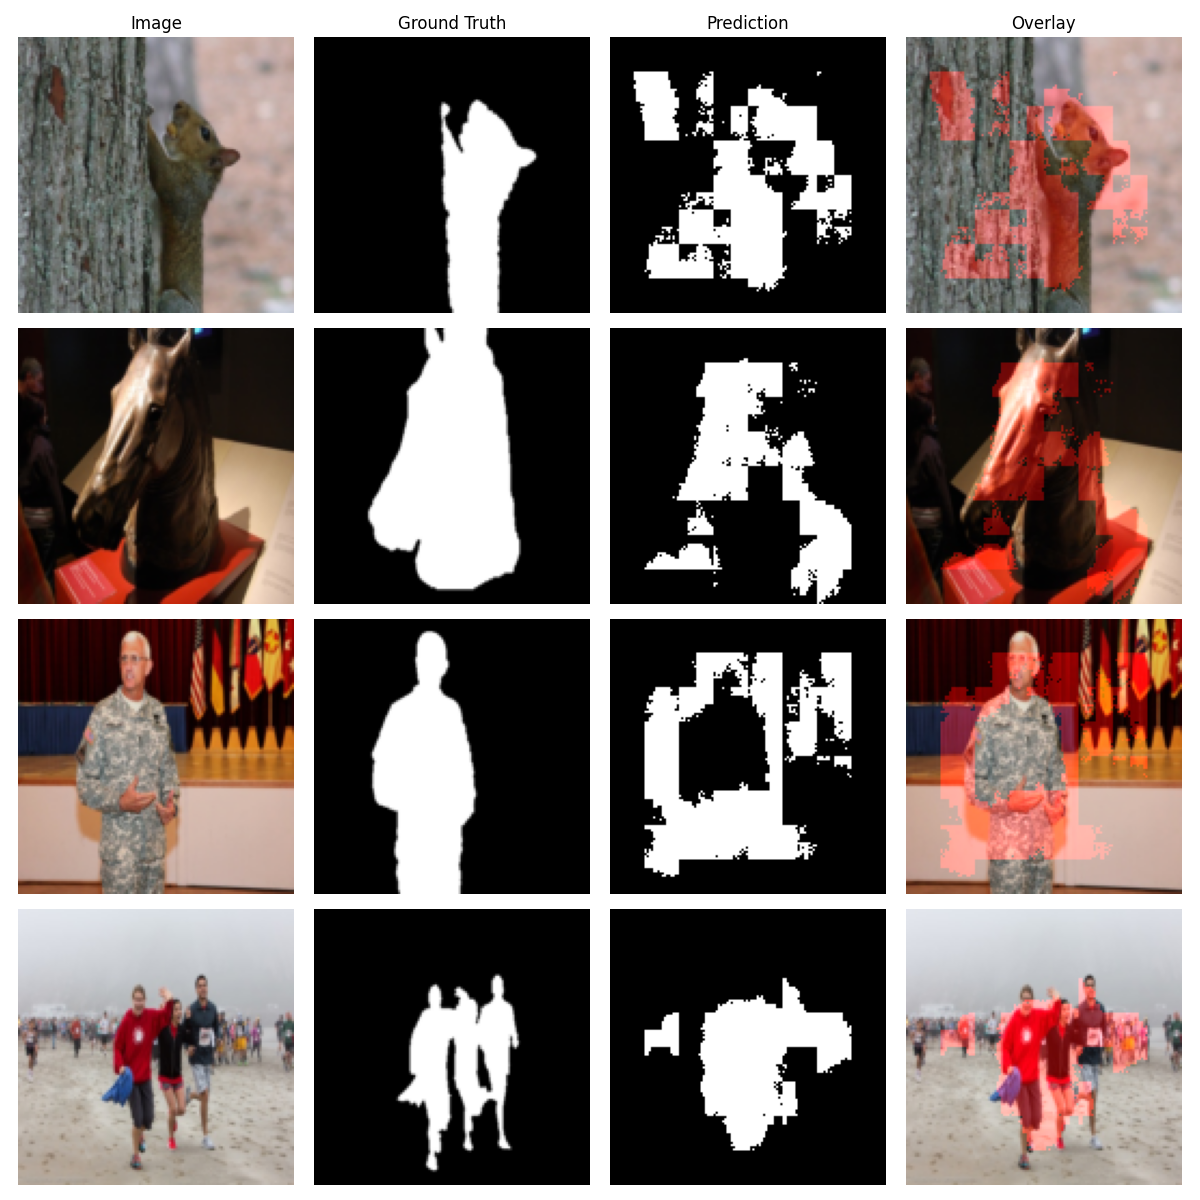
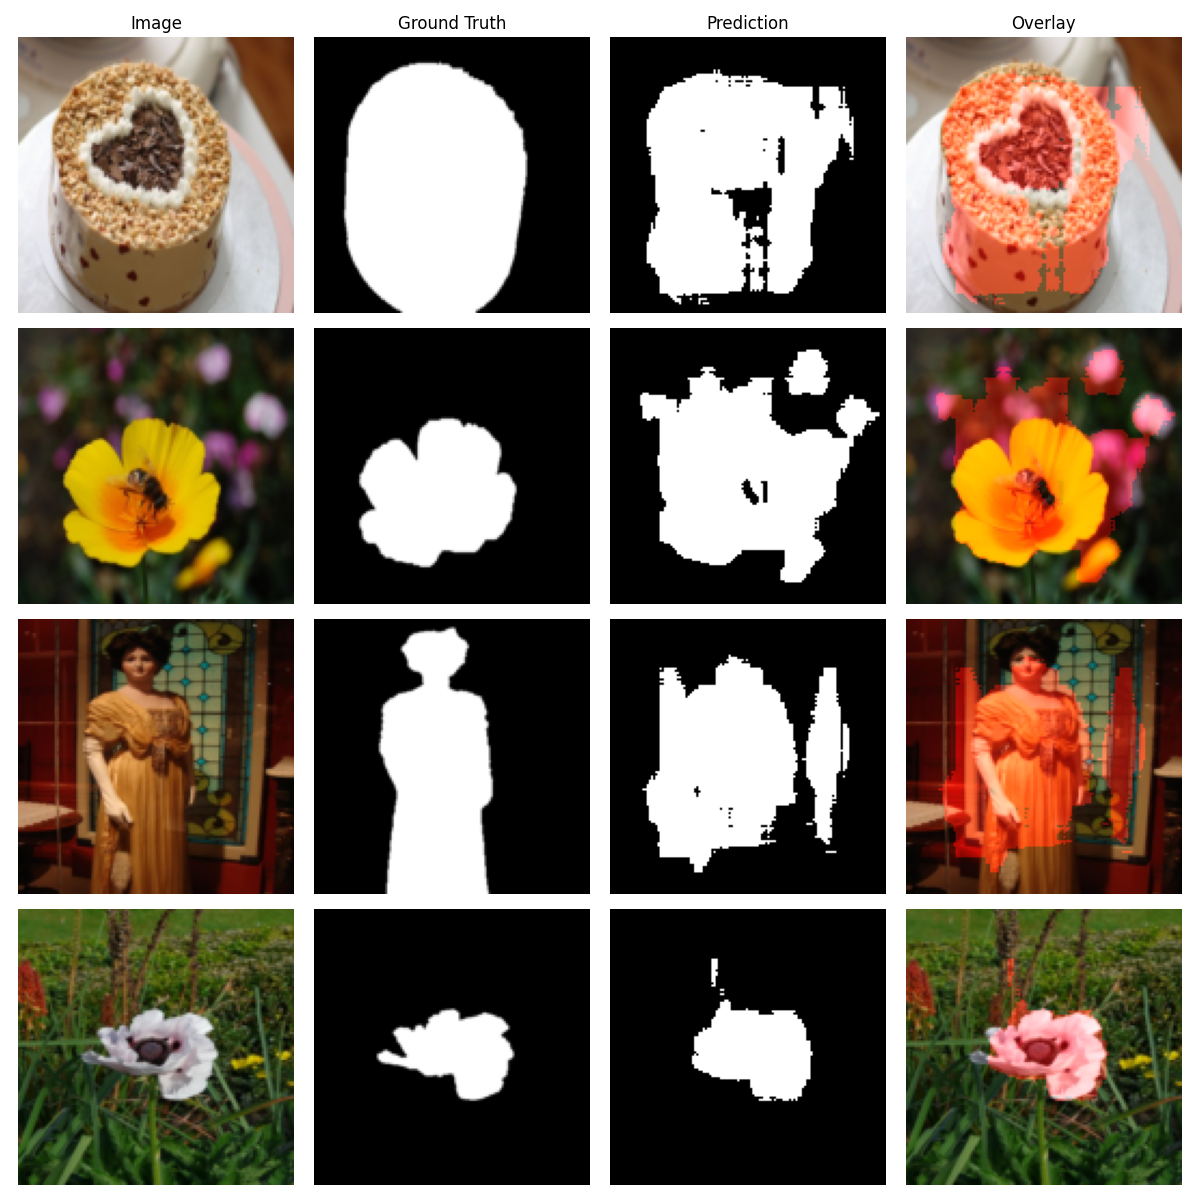
features: add U-Net architecture for experimentation and data augmentation

diff --git a/unet_sod_model.py b/unet_sod_model.py
@@ -1,0 +1,53 @@
+import torch
+import torch.nn as nn
+
+class UNetSODModel(nn.Module):
+    def __init__(self):
+        super().__init__()
+
+        self.pool = nn.MaxPool2d(2, 2)
+
+        # Encoder
+        self.enc1 = nn.Sequential(nn.Conv2d(3, 64, kernel_size=3, padding=1), nn.BatchNorm2d(64), nn.ReLU())
+        self.enc2 = nn.Sequential(nn.Conv2d(64, 128, kernel_size=3, padding=1), nn.BatchNorm2d(128), nn.ReLU())
+        self.enc3 = nn.Sequential(nn.Conv2d(128, 256, kernel_size=3, padding=1), nn.BatchNorm2d(256), nn.ReLU())
+        self.enc4 = nn.Sequential(nn.Conv2d(256, 512, kernel_size=3, padding=1), nn.BatchNorm2d(512), nn.ReLU())
+
+        # Decoder
+        self.dec1 = nn.ConvTranspose2d(512, 256, kernel_size=2, stride=2)
+        self.dec1_conv = nn.Sequential(nn.Conv2d(512, 256, kernel_size=3, padding=1), nn.BatchNorm2d(256), nn.ReLU())
+
+        self.dec2 = nn.ConvTranspose2d(256, 128, kernel_size=2, stride=2)
+        self.dec2_conv = nn.Sequential(nn.Conv2d(256, 128, kernel_size=3, padding=1), nn.BatchNorm2d(128), nn.ReLU())
+
+        self.dec3 = nn.ConvTranspose2d(128, 64, kernel_size=2, stride=2)
+        self.dec3_conv = nn.Sequential(nn.Conv2d(128, 64, kernel_size=3, padding=1), nn.BatchNorm2d(64), nn.ReLU())
+
+        self.output = nn.Conv2d(64, 1, kernel_size=1)
+        self.sigmoid = nn.Sigmoid()
+
+    def forward(self, x):
+        # Encoder path
+        e1 = self.enc1(x)                  # 128x128, 64ch
+        e2 = self.enc2(self.pool(e1))      # 64x64,  128ch
+        e3 = self.enc3(self.pool(e2))      # 32x32,  256ch
+        e4 = self.enc4(self.pool(e3))      # 16x16,  512ch (bottleneck)
+
+        # Decoder path with skip connections
+        x = self.dec1(e4)                              # 32x32, 256ch
+        x = self.dec1_conv(torch.cat([x, e3], dim=1))  # concat with e3 (256ch) → 512ch in → 256ch out
+
+        x = self.dec2(x)                               # 64x64, 128ch
+        x = self.dec2_conv(torch.cat([x, e2], dim=1))  # concat with e2 (128ch) → 256ch in → 128ch out
+
+        x = self.dec3(x)                               # 128x128, 64ch
+        x = self.dec3_conv(torch.cat([x, e1], dim=1))  # concat with e1 (64ch) → 128ch in → 64ch out
+
+        return self.sigmoid(self.output(x))
+
+if __name__ == "__main__":
+    model = UNetSODModel()
+    dummy = torch.randn(1, 3, 128, 128)
+    output = model(dummy)
+    print(f"Input:  {dummy.shape}")
+    print(f"Output: {output.shape}")

diff --git a/data_loader.py b/data_loader.py
@@ -14,7 +14,7 @@ BATCH_SIZE = 32
 NUM_WORKERS = 4
 
 class SODDataset(Dataset):
-    def __init__(self, images_dir, masks_dir, image_size=IMAGE_SIZE):
+    def __init__(self, images_dir, masks_dir, image_size=IMAGE_SIZE, augment=False):
         self.images_dir = Path(images_dir)
         self.masks_dir = Path(masks_dir)
 
@@ -32,14 +32,20 @@ class SODDataset(Dataset):
         self.image_transform = T.Compose([
             T.Resize((image_size, image_size)),
             T.ToImage(),
-            T.ToDtype(torch.float32, scale = True)
+            T.ToDtype(torch.float32, scale=True)
         ])
 
         self.mask_transform = T.Compose([
             T.Resize((image_size, image_size)),
             T.ToImage(),
-            T.ToDtype(torch.float32, scale = True)
+            T.ToDtype(torch.float32, scale=True)
         ])
+
+        self.augment = augment
+        self.shared_aug = T.Compose([
+            T.RandomHorizontalFlip(p=0.5),
+            T.RandomRotation(degrees=10),
+        ]) if augment else None
         
     def __len__(self):
         return len(self.image_paths)
@@ -47,6 +53,13 @@ class SODDataset(Dataset):
     def __getitem__(self, idx):
         image = Image.open(self.image_paths[idx]).convert("RGB")
         mask = Image.open(self.mask_paths[idx]).convert("L")
+
+        if self.augment:
+            seed = torch.randint(0, 1000000, (1,)).item()
+            torch.manual_seed(seed)
+            image = self.shared_aug(image)
+            torch.manual_seed(seed)
+            mask = self.shared_aug(mask)
 
         image_tensor = self.image_transform(image)
         mask_tensor = self.mask_transform(mask)

diff --git a/evaluate.py b/evaluate.py
@@ -2,6 +2,8 @@ import torch
 import matplotlib.pyplot as plt
 from data_loader import SODDataset, split_dataset, make_dataloaders
 from sod_model import SODModel
+from unet_sod_model import UNetSODModel
+import random
 
 DEVICE = torch.device("cuda" if torch.cuda.is_available() else "cpu")
 
@@ -9,7 +11,8 @@ dataset = SODDataset("data/images", "data/ground_truth_mask")
 train_set, val_set, test_set = split_dataset(dataset)
 train_loader, val_loader, test_loader = make_dataloaders(train_set, val_set, test_set)
 
-model = SODModel().to(DEVICE)
+#model = SODModel().to(DEVICE)
+model = UNetSODModel().to(DEVICE)
 model.load_state_dict(torch.load("checkpoints/best_model.pth", map_location=DEVICE))
 model.eval()
 
@@ -53,7 +56,8 @@ print(f"Precision: {total_precision / num_batches:.4f}")
 print(f"Recall:    {total_recall / num_batches:.4f}")
 print(f"F1:        {total_f1 / num_batches:.4f}")
 
-images, masks = next(iter(test_loader))
+batches = list(test_loader)
+images, masks = random.choice(batches)
 images = images.to(DEVICE)
 masks = masks.to(DEVICE)
 

diff --git a/train.py b/train.py
@@ -2,6 +2,7 @@ import torch
 import torch.nn as nn
 from data_loader import SODDataset, split_dataset, make_dataloaders
 from sod_model import SODModel
+from unet_sod_model import UNetSODModel
 
 def iou_loss(predictions, targets, smooth=1e-6):
     # I added smooth 1e-6 that is adde to top and bottom to avoid division by zero
@@ -20,10 +21,12 @@ LEARNING_RATE = 1e-3
 DEVICE = torch.device("cuda" if torch.cuda.is_available() else "cpu")
 
 dataset = SODDataset("data/images", "data/ground_truth_mask")
+
 train_set, val_set, test_set = split_dataset(dataset)
 train_loader, val_loader, test_loader = make_dataloaders(train_set, val_set, test_set)
 
-model = SODModel().to(DEVICE)
+#model = SODModel().to(DEVICE)
+model = UNetSODModel().to(DEVICE)
 optimizer = torch.optim.Adam(model.parameters(), lr = LEARNING_RATE)
 
 best_val_loss = float('inf')
